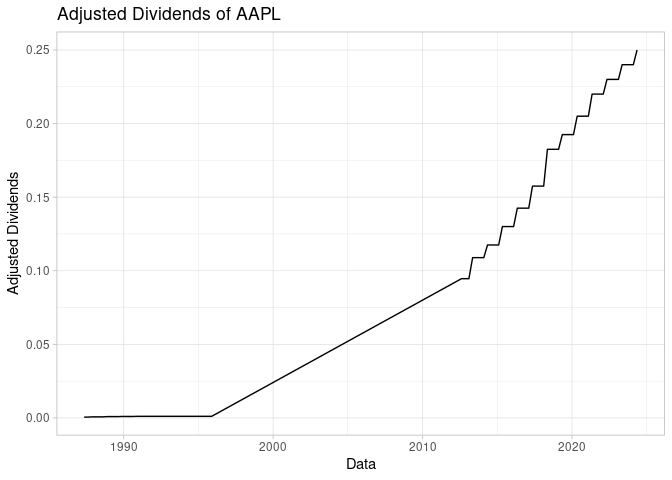
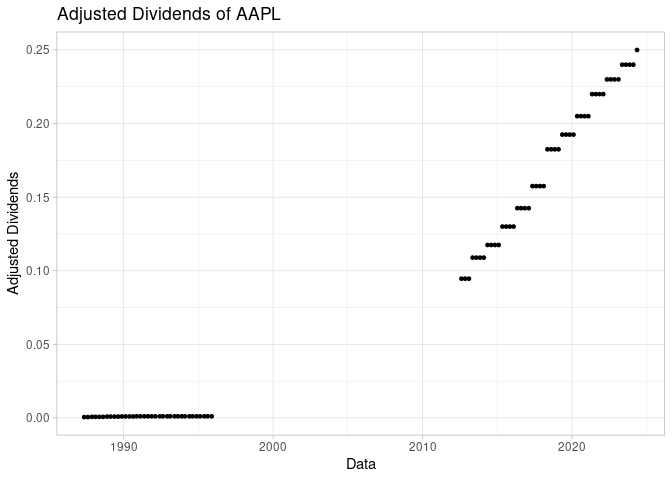
codecov badge

diff --git a/README.md b/README.md
@@ -8,6 +8,7 @@
 <!-- badges: start -->
 
 [![R-CMD-check](https://github.com/msperlin/eodhd2/actions/workflows/R-CMD-check.yaml/badge.svg)](https://github.com/msperlin/eodhd2/actions/workflows/R-CMD-check.yaml)
+[![codecov](https://codecov.io/github/msperlin/eodhd2/graph/badge.svg?token=9Y5GNHALC4)](https://codecov.io/github/msperlin/eodhd2)
 <!-- badges: end -->
 
 [eodhd](https://eodhd.com/) is a private company that offers access to a
@@ -66,7 +67,7 @@ token <- eodhd2::get_demo_token()
 eodhd2::set_token(token)
 #> ✔ eodhd API token set
 #> ℹ Account name: API Documentation 2 (supportlevel1@eodhistoricaldata.com)
-#> ℹ Quota: 42667 | 10000000
+#> ℹ Quota: 44117 | 10000000
 #> ℹ Subscription: demo
 #> ✖ You are using a DEMONSTRATION token for testing pourposes, with limited access to the data repositories.
 #> See <https://eodhd.com/> for registration and use function set_token(TOKEN) to set your own token.
@@ -83,8 +84,8 @@ exchange <- "US"
 df_prices <- eodhd2::get_prices(ticker, exchange)
 #> 
 #> ── fetching price data for ticker AAPL|US ──────────────────────────────────────
-#> ! Quota status: 42669|10000000, refreshing in 11.1 hours
-#> ℹ cache file '/tmp/Rtmp0nahhV/eodhd2-cache/AAPL_US_eodhd_prices.rds' saved
+#> ! Quota status: 44117|10000000, refreshing in 10.8 hours
+#> ℹ cache file '/tmp/RtmpB7Sy9K/eodhd2-cache/AAPL_US_eodhd_prices.rds' saved
 #> ✔    got 10959 rows of prices
 #> ℹ    got daily data from 1980-12-12 to 2024-06-03
 ```
@@ -133,8 +134,8 @@ exchange <- "US"
 df_div <- eodhd2::get_dividends(ticker, exchange)
 #> 
 #> ── fetching dividends for ticker AAPL|US ───────────────────────────────────────
-#> ! Quota status: 42674|10000000, refreshing in 11.1 hours
-#> ℹ cache file '/tmp/Rtmp0nahhV/eodhd2-cache/AAPL_US_eodhd_dividends.rds' saved
+#> ! Quota status: 44121|10000000, refreshing in 10.8 hours
+#> ℹ cache file '/tmp/RtmpB7Sy9K/eodhd2-cache/AAPL_US_eodhd_dividends.rds' saved
 #> ✔    got 83 rows of dividend data
 ```
 
@@ -161,7 +162,7 @@ head(df_div)
 library(ggplot2)
 
 p <- ggplot(df_div, aes(y = value, x = date)) + 
-  geom_line() + 
+  geom_point(size = 1) + 
   theme_light() + 
   labs(title = "Adjusted Dividends of AAPL",
        x = "Data",
@@ -181,7 +182,7 @@ exchange <- "US"
 l_fun <- eodhd2::get_fundamentals(ticker, exchange)
 #> 
 #> ── fetching fundamentals for ticker AAPL|US ────────────────────────────────────
-#> ! Quota status: 42675|10000000, refreshing in 11.1 hours
+#> ! Quota status: 44122|10000000, refreshing in 10.8 hours
 #> ✔    querying API
 #> ✔    got 13 elements in raw list
 ```
